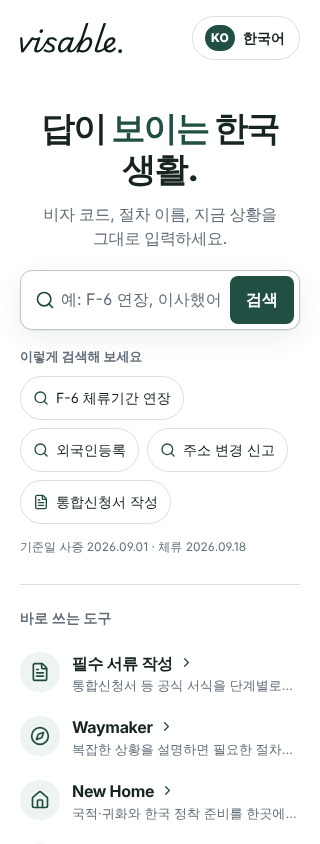
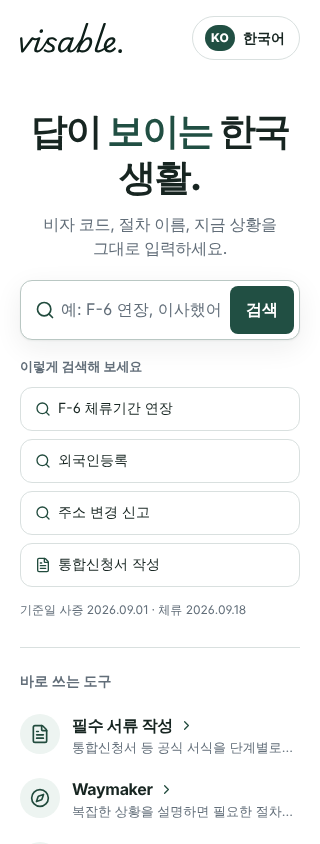
fix(home): no reflow shift when the web font replaces the fallback on phones
CI (slow 3G-like profile, 320 px) measured CLS 0.284 > 0.25: when Pretendard
arrived, the 34 px headline went from three lines to two and the example chips
from three rows to two. The phone headline keeps the 37 px / 1.24 metrics that
break into the same two lines in both fonts, and the examples become a
one-per-row list whose row count cannot change. Measured with the font served
locally: 320 px 0.214 → 0.008 (main: 0.0075), 360/430 px 0.044, 390 px 0.068.

Claude-Session: https://claude.ai/code/session_019iyM1NymZPn8qXfmGxPmUC

diff --git a/assets/css/civic-search.css b/assets/css/civic-search.css
@@ -296,7 +296,7 @@ body[data-theme="dark"] .cs-tool:hover .cs-icon-circle .cs-icon { filter: none; 
   .cs-languages button { min-width: 46px; min-height: 44px; }
   .cs-home { padding: 0 20px; }
   .cs-hero { padding: 32px 0 28px; }
-  .cs-hero h1 { font-size: 34px; max-width: 330px; margin: 0 auto 12px; letter-spacing: -.05em; }
+  .cs-hero h1 { font-size: 37px; line-height: 1.24; max-width: 330px; margin: 0 auto 12px; letter-spacing: -.05em; }
   .cs-hero > p { font-size: 16px; margin-bottom: 20px; }
   .cs-searchbar { gap: 6px; padding: 5px 5px 5px 14px; min-height: 58px; border-radius: 12px; }
   .cs-searchbar > .cs-icon { width: 20px; height: 20px; }
@@ -309,9 +309,11 @@ body[data-theme="dark"] .cs-tool:hover .cs-icon-circle .cs-icon { filter: none; 
   .cs-sug-kind { justify-self: start; min-width: 0; padding: 1px 6px; font-size: 11px; }
   .cs-sug-label { font-size: 15px; white-space: normal; overflow-wrap: anywhere; }
   .cs-sug-sub { white-space: normal; }
-  .cs-examples { justify-content: flex-start; gap: 8px; margin-top: 16px; }
+  /* one example per row: the row count cannot change when the web font replaces the fallback (no reflow shift) */
+  .cs-examples { display: grid; grid-template-columns: minmax(0, 1fr); gap: 8px; margin-top: 16px; }
   .cs-examples-label { font-size: 13px; text-align: left; }
-  .cs-examples button, .cs-example-link { font-size: 14px !important; min-height: 44px; padding: 8px 12px; }
+  .cs-examples button, .cs-example-link { font-size: 14px !important; min-height: 44px; padding: 8px 14px; width: 100%; justify-content: flex-start; border-radius: 12px; }
+  .cs-examples button > span, .cs-example-link > span { min-width: 0; overflow: hidden; text-overflow: ellipsis; white-space: nowrap; }
   .cs-examples > button:nth-of-type(4) { display: none; }
   .cs-hero > .cs-basis { text-align: left; margin-top: 14px; font-size: 12px; }
   .cs-browse { padding: 14px 14px 16px; }
